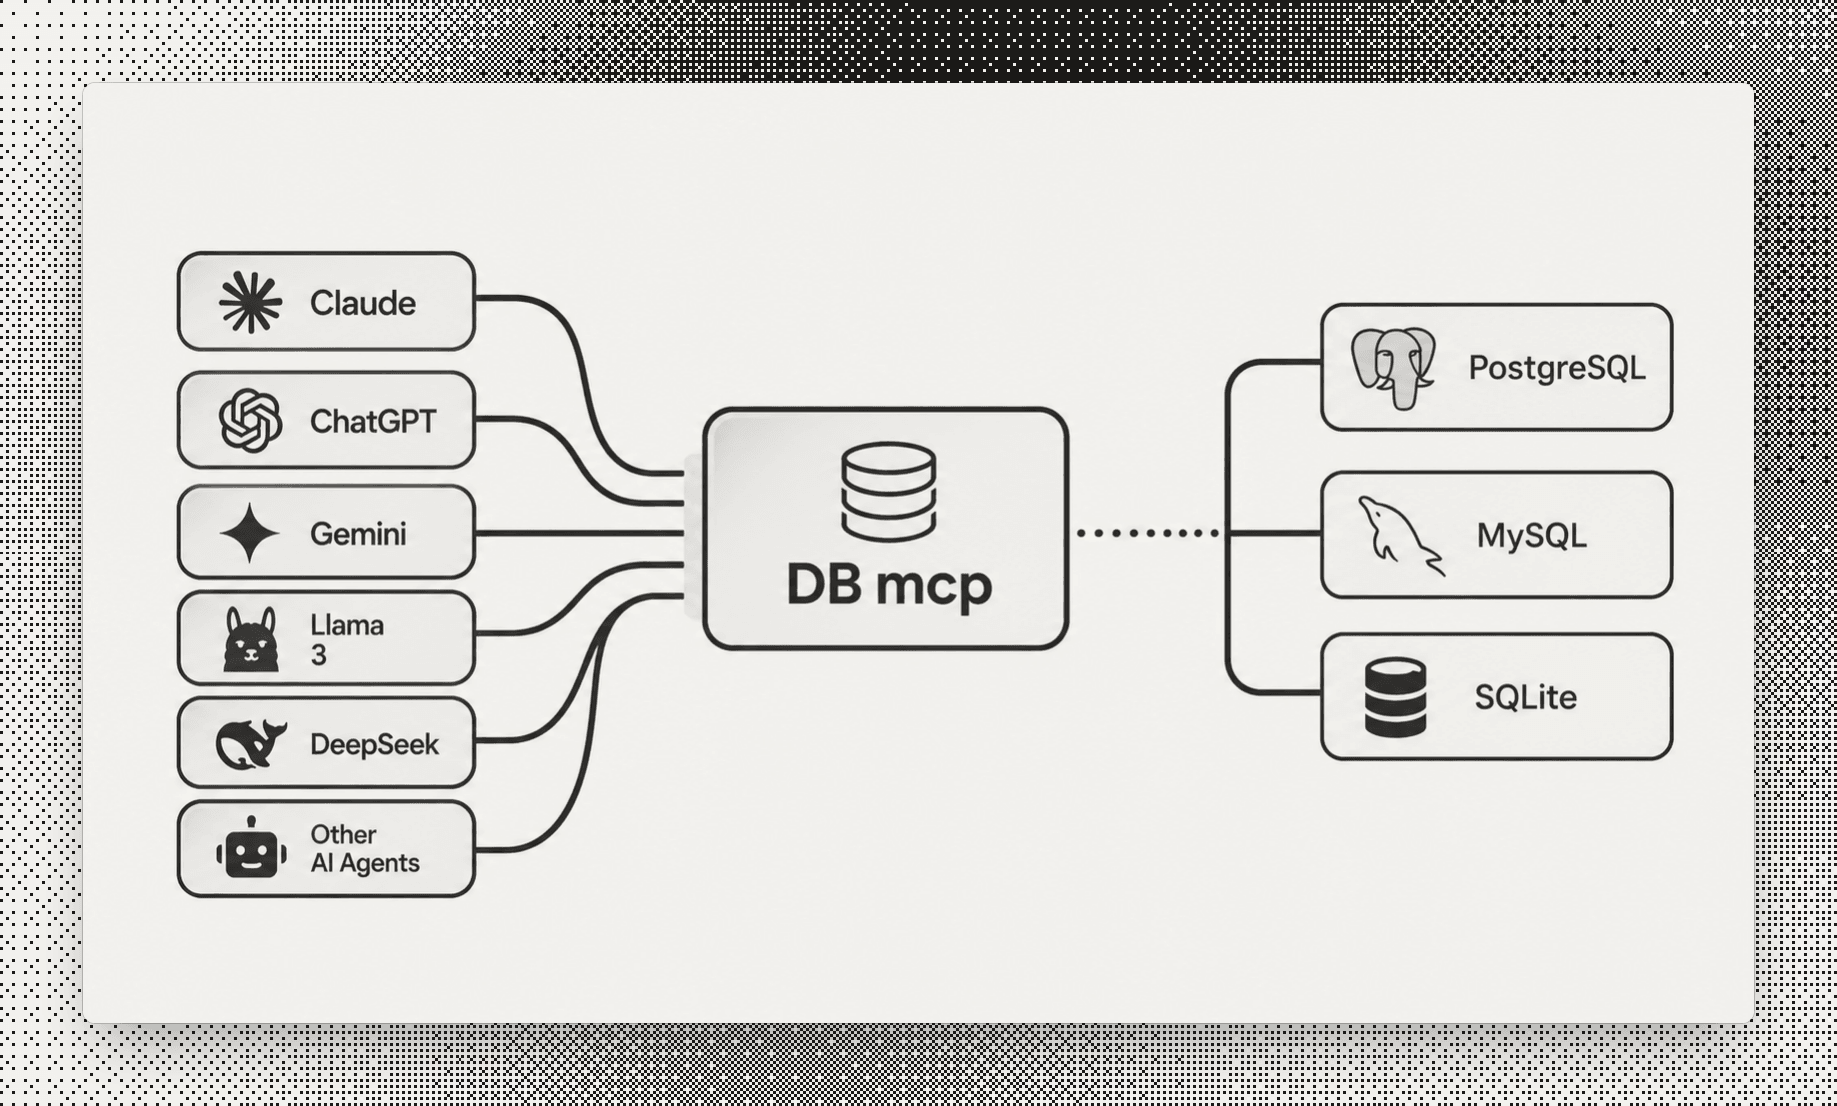
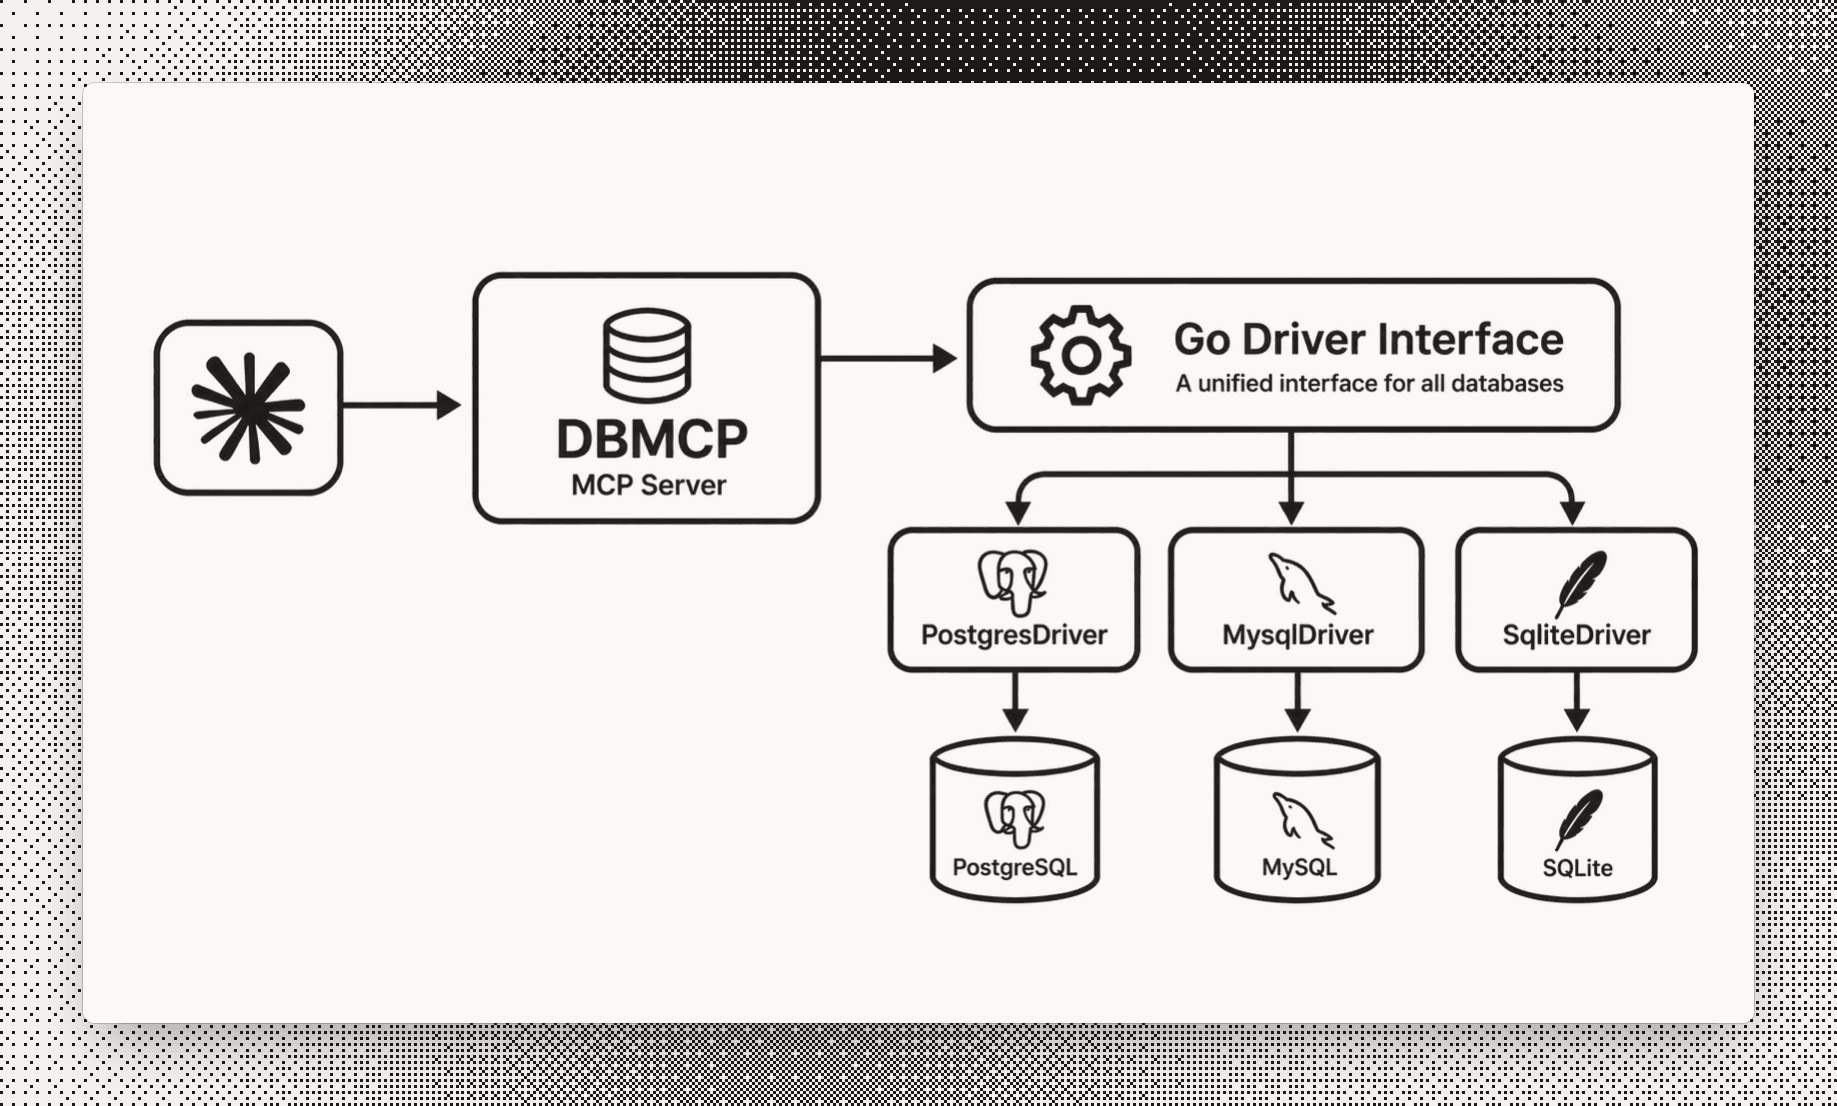
feat: new driver interface cover and consistent blog cover background
- Replace the driver interface post cover with the new architecture diagram
- Make --blend use each image's own black point so every cover gets the same background
- Use the card color for the dark blog cover background

Changed region(s): [[0.0621, 0.2152, 0.9309, 0.83]]

diff --git a/apps/web/scripts/cover/render.ts b/apps/web/scripts/cover/render.ts
@@ -114,7 +114,7 @@ function outputPath(current: (typeof TONES)[number]): string {
 }
 
 const PAGE_COLORS = {
-  dark: { background: [10, 10, 10], ink: [245, 243, 238] },
+  dark: { background: [15, 15, 15], ink: [245, 243, 238] },
   light: { background: [250, 249, 246], ink: [28, 27, 25] },
 };
 
@@ -127,9 +127,12 @@ async function source(current: (typeof TONES)[number]): Promise<string> {
     .grayscale()
     .raw()
     .toBuffer({ resolveWithObject: true });
+  const histogram = Array.from({ length: 128 }, () => 0);
+  for (const value of data) if (value < 128) histogram[value]++;
+  const black = histogram.indexOf(Math.max(...histogram)) + 6;
   const pixels = Buffer.alloc(info.width * info.height * 3);
   for (let index = 0; index < info.width * info.height; index++) {
-    const level = data[index] / 255;
+    const level = Math.max(0, (data[index] - black) / (255 - black));
     for (let channel = 0; channel < 3; channel++) {
       pixels[index * 3 + channel] = Math.round(
         background[channel] + (ink[channel] - background[channel]) * level,

diff --git a/AGENTS.md b/AGENTS.md
@@ -26,7 +26,7 @@ Project pages are written like blog posts: frontmatter holds only metadata (titl
 
 Project and blog covers are an image framed on a monochrome dithered background, in a dark and a light version; `ThemedImage.svelte` shows the one matching the site theme, and `getCover` in `projects.ts` / `posts.ts` finds the light file by its `-light` suffix. `bun run --cwd apps/web cover <screenshot> --out src/content/projects/images/<Name>.png` builds one: `apps/web/scripts/cover/render.ts` fills `scripts/cover/template.html`, has headless Chrome or Edge screenshot it, and saves a palette PNG through sharp. The background is a monochrome Bayer dither of soft blobs, drawn on a canvas in the template: `--tone dark|light` picks the site's dark or light grays, `--cell` sets the size of one dither pixel (default 3), and `--seed` moves the blobs. `--width`, `--padding` and `--radius` tune the frame, and the default width keeps the screenshot at its native size. The browser is found automatically, or set with `--browser` / `CHROME_PATH`. The tones are the `--low` / `--high` CSS variables in the template.
 
-Blog posts can also set an `image` cover (in `images/covers/`) and an `imageAlt` in frontmatter; it shows under the title on the post page and in the home page's Latest Posts, morphing through `post-<slug>-image`. Blog covers go through the same cover script as project covers (`--out apps/web/src/content/blog-posts/images/covers/<slug>.png`), so each has a dark `<slug>.png` and a `<slug>-light.png` that follows the site theme. Blog cover illustrations are black-and-white diagrams, so render them with `--blend`: it maps each pixel's brightness onto the site colors, so the dark cover is off-white lines on `#0a0a0a` and the light cover is dark ink on `#faf9f6` (colors in `PAGE_COLORS` in the script). Other screenshots are stored as palette PNG.
+Blog posts can also set an `image` cover (in `images/covers/`) and an `imageAlt` in frontmatter; it shows under the title on the post page and in the home page's Latest Posts, morphing through `post-<slug>-image`. Blog covers go through the same cover script as project covers (`--out apps/web/src/content/blog-posts/images/covers/<slug>.png`), so each has a dark `<slug>.png` and a `<slug>-light.png` that follows the site theme. Blog cover illustrations are black-and-white diagrams, so render them with `--blend`: it treats the image's most common dark value as black, so every source gets the same background, then maps each pixel's brightness onto the site colors, so the dark cover is off-white lines on the card color `#0f0f0f` and the light cover is dark ink on `#faf9f6` (colors in `PAGE_COLORS` in the script). Other screenshots are stored as palette PNG.
 
 Blog post images go in `apps/web/src/content/blog-posts/images/` and are referenced with relative paths (`./images/...`), not from `static/`. mdsvex imports them through `@sveltejs/enhanced-img`, and `src/lib/components/markdown/Image.svelte` renders the AVIF/WebP picture with width, height and lazy loading. An image in `static/` gets none of that.
 

diff --git a/apps/web/src/content/blog-posts/04.go-driver-interface-pattern.md b/apps/web/src/content/blog-posts/04.go-driver-interface-pattern.md
@@ -2,7 +2,7 @@
 title: "DBMcp: Refactoring to a Driver Interface"
 description: How I restructured DBMcp's multi-database support, replacing scattered if/else checks with a Go interface so adding a new driver only requires one new file.
 image: ./images/covers/go-driver-interface-pattern.png
-imageAlt: "Claude, ChatGPT, Gemini, Llama 3, DeepSeek and other AI agents connected to DBMcp, which talks to PostgreSQL, MySQL and SQLite"
+imageAlt: "An AI assistant calling the DBMcp MCP server, which goes through a Go driver interface to a Postgres, MySQL or SQLite driver and on to that database"
 seoDescription: How DBMcp moved from scattered database type checks to a Go driver interface, so each database's queries live in one file.
 seoKeywords:
   - DBMcp
